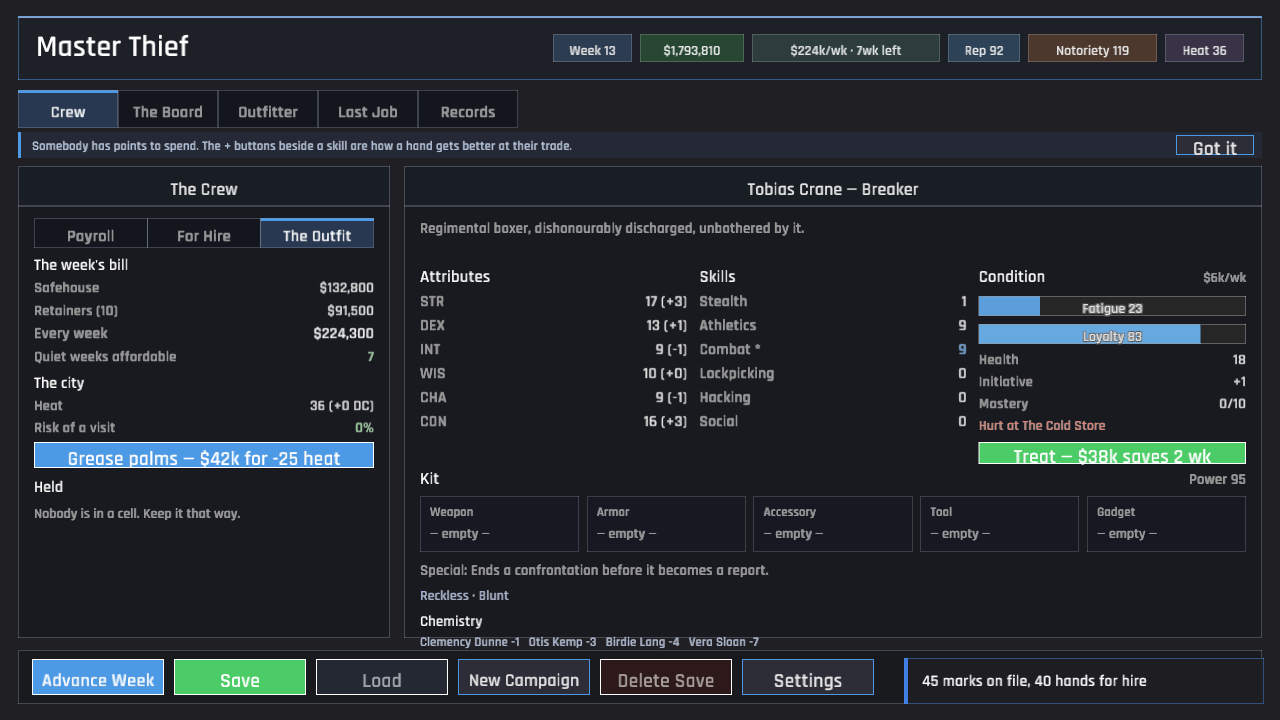
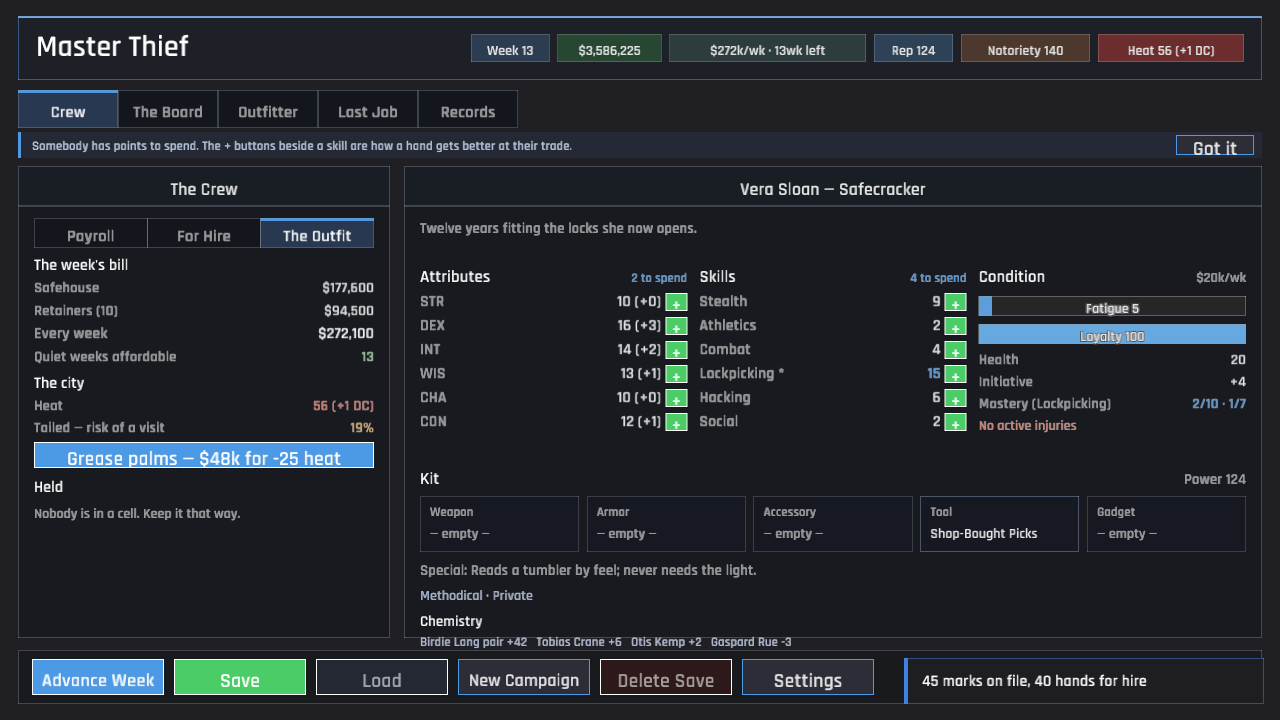
A trade you never practise never deepens, and mastery finally does (GDD 0: wiring a dead field)
`mastery_level` was declared on `Progression`, read by `effective_skills` where
it adds straight to the member's specialty skill, shown on every dossier, and
exposed as an achievement statistic. Nothing anywhere wrote it. Every hand in
every campaign read 0/10 forever, the skill bonus was permanently zero, and
`TallyStat::BestMastery` could not exceed zero either.

This is the exact bug the GDD's own migration table calls out about the
original's `characterRelationships` — a field that exists, is read, and is never
written — and it survived the port into the field the table said to *keep as-is*.
Keeping it as-is turned out to mean keeping it dead.

It is earned now, and only one way: clear a door whose primary skill is the
hand's own trade. Somebody else's door teaches nothing and a failed door teaches
nothing, because you get good at a thing by doing it and succeeding. Each rank
costs more doors than the last, capped at ten.

What that buys is a decision at the planning table, which is where this game
keeps its skill. The candidate list sorts by total bonus, so it will happily
argue for putting a Face on a stealth door because their number is two higher
today. Mastery is the counter-argument: give the specialist their own door and
the trade deepens, and because mastery feeds back into that same skill, the
ranks compound with the choice that earned them. Immediate odds against
investment, decided per door, which is the shape the whole screen is built for.
[…]

diff --git a/src/rules/attributes.rs b/src/rules/attributes.rs
@@ -4,6 +4,7 @@
 //! consumed pruned away (GDD 0, mechanic carry-over table).
 
 use crate::model::{Attributes, CrewMember, DerivedStats, Loadout, Progression, Skill, Skills};
+use serde::{Deserialize, Serialize};
 
 /// The standard `(score - 10) / 2`, rounded *down* — including for negatives,
 /// which is why this uses Euclidean division rather than Rust's truncation.
@@ -89,6 +90,64 @@ pub fn total_experience(level: i32) -> i32 {
 /// The D&D-style proficiency bonus every check gets for free.
 pub fn proficiency_bonus(level: i32) -> i32 {
     (level - 1) / 4 + 2
+}
+
+/// How long it takes to get good at the one thing you are for. Authored in
+/// `game_config.json`: the shape is a rule, the numbers are balance.
+#[derive(Debug, Clone, Copy, PartialEq, Eq, Serialize, Deserialize)]
+pub struct MasteryTuning {
+    /// Doors of your own trade needed for the first rank.
+    pub doors_for_first: u32,
+    /// Added to that requirement at every rank after.
+    pub doors_step: u32,
+    pub max_level: i32,
+}
+
+impl Default for MasteryTuning {
+    fn default() -> Self {
+        Self {
+            doors_for_first: 3,
+            doors_step: 2,
+            max_level: 10,
+        }
+    }
+}
+
+impl MasteryTuning {
+    /// Doors still owed before the next rank, at the rank they hold now.
+    pub fn doors_for_next(&self, level: i32) -> u32 {
+        self.doors_for_first + self.doors_step * level.max(0) as u32
+    }
+
+    pub fn is_capped(&self, level: i32) -> bool {
+        level >= self.max_level
+    }
+}
+
+/// One door of the member's own trade, cleared. Mastery was declared on every
+/// dossier, read by [`effective_skills`], and written by nothing at all — a
+/// hand's specialisation could never actually deepen. It advances here, and
+/// only here: you get good at a trade by practising it successfully, so a
+/// failed door teaches nothing and somebody else's door teaches nothing.
+///
+/// Returns true when that door earned a rank, so the run can say so.
+pub fn work_the_trade(progression: &mut Progression, tuning: &MasteryTuning) -> bool {
+    if tuning.is_capped(progression.mastery_level) {
+        return false;
+    }
+
+    progression.specialty_doors += 1;
+    let needed = tuning.doors_for_next(progression.mastery_level);
+    if progression.specialty_doors < needed {
+        return false;
+    }
+
+    progression.specialty_doors -= needed;
+    progression.mastery_level += 1;
+    if tuning.is_capped(progression.mastery_level) {
+        progression.specialty_doors = 0;
+    }
+    true
 }
 
 /// Award experience, levelling as many times as it covers. Returns how many
@@ -202,6 +261,87 @@ mod tests {
         assert_eq!(skills.stealth, 11);
         // Lockpicking: 4 + DEX(+3) + INT(+2) + 2 = 11
         assert_eq!(skills.lockpicking, 11);
+    }
+
+    #[test]
+    fn a_trade_is_learned_at_its_own_doors() {
+        // Mastery was declared, read by `effective_skills`, and written by
+        // nothing — every dossier in the game read 0/10 forever.
+        let tuning = MasteryTuning::default();
+        let mut progression = Progression::default();
+
+        for _ in 0..tuning.doors_for_first - 1 {
+            assert!(!work_the_trade(&mut progression, &tuning));
+        }
+        assert_eq!(progression.mastery_level, 0);
+
+        assert!(
+            work_the_trade(&mut progression, &tuning),
+            "the rank never came"
+        );
+        assert_eq!(progression.mastery_level, 1);
+        assert_eq!(progression.specialty_doors, 0);
+    }
+
+    #[test]
+    fn every_rank_costs_more_doors_than_the_one_before() {
+        let tuning = MasteryTuning::default();
+        let mut progression = Progression::default();
+        let mut costs = Vec::new();
+
+        for _ in 0..4 {
+            let mut doors = 0;
+            while !work_the_trade(&mut progression, &tuning) {
+                doors += 1;
+                assert!(doors < 500, "a rank that never arrives");
+            }
+            costs.push(doors + 1);
+        }
+
+        for pair in costs.windows(2) {
+            assert!(pair[1] > pair[0], "the ladder is flat: {:?}", costs);
+        }
+    }
+
+    #[test]
+    fn mastery_stops_at_the_cap_and_stays_there() {
+        let tuning = MasteryTuning::default();
+        let mut progression = Progression::default();
+
+        for _ in 0..5_000 {
+            work_the_trade(&mut progression, &tuning);
+        }
+
+        assert_eq!(progression.mastery_level, tuning.max_level);
+        assert_eq!(progression.specialty_doors, 0);
+        assert!(!work_the_trade(&mut progression, &tuning));
+    }
+
+    #[test]
+    fn a_rank_of_mastery_is_worth_a_point_of_the_trade() {
+        // The reason it matters: mastery feeds straight into the specialty
+        // skill, so ranks compound with the planning decision that earned them.
+        let tuning = MasteryTuning::default();
+        let attributes = attrs(10, 10, 10, 10, 10, 10);
+        let mut progression = Progression::default();
+        let before = effective_skills(
+            &attributes,
+            &Skills::default(),
+            &progression,
+            Skill::Stealth,
+        )
+        .get(Skill::Stealth);
+
+        while !work_the_trade(&mut progression, &tuning) {}
+        let after = effective_skills(
+            &attributes,
+            &Skills::default(),
+            &progression,
+            Skill::Stealth,
+        )
+        .get(Skill::Stealth);
+
+        assert_eq!(after - before, 1);
     }
 
     #[test]

diff --git a/src/ui/crew.rs b/src/ui/crew.rs
@@ -374,12 +374,26 @@ fn draw_condition(
         15.0,
         dark::TEXT,
     );
+    // Mastery is earned at the doors of their own trade, so the dossier says
+    // how close the next rank is rather than only where they stand.
+    let mastery = &ctx.data.config.mastery;
+    let rank = member.progression.mastery_level;
     stat_row(
         Rect::new(rect.x, rect.y + 128.0, rect.w, 20.0),
-        "Mastery",
-        &format!("{}/10", member.progression.mastery_level),
+        &format!("Mastery ({})", member.specialty_skill.label()),
+        &if mastery.is_capped(rank) {
+            format!("{}/{} — mastered", rank, mastery.max_level)
+        } else {
+            format!(
+                "{}/{} · {}/{}",
+                rank,
+                mastery.max_level,
+                member.progression.specialty_doors,
+                mastery.doors_for_next(rank)
+            )
+        },
         15.0,
-        dark::TEXT,
+        if rank > 0 { dark::ACCENT } else { dark::TEXT },
     );
 
     let injuries = if condition.injuries.is_empty() {

diff --git a/src/sim/campaign.rs b/src/sim/campaign.rs
@@ -325,6 +325,32 @@ mod tests {
     }
 
     #[test]
+    fn specialists_get_better_at_the_thing_they_are_for() {
+        // Mastery read 0/10 on every dossier in the game because nothing ever
+        // wrote it. A campaign should now visibly deepen somebody's trade.
+        let (_, session, _) = campaign(20_260_726, 20);
+
+        let best = session
+            .crew
+            .iter()
+            .map(|member| member.progression.mastery_level)
+            .max()
+            .unwrap_or(0);
+        assert!(
+            best > 0,
+            "twenty weeks and nobody got better at their trade"
+        );
+        assert!(best < 10, "twenty weeks should not master a trade outright");
+        assert!(
+            session
+                .crew
+                .iter()
+                .any(|m| m.progression.mastery_level == 0),
+            "mastery arrived for everybody, so it is not an investment"
+        );
+    }
+
+    #[test]
     fn the_city_notices_a_working_outfit() {
         let (data, session, log) = campaign(4_242, 20);
 

diff --git a/src/sim/job.rs b/src/sim/job.rs
@@ -3,7 +3,7 @@
 use crate::data::GameData;
 use crate::model::crew::Injury;
 use crate::model::{Encounter, HeistTarget, RunEffect};
-use crate::rules::attributes::award_experience;
+use crate::rules::attributes::{award_experience, work_the_trade};
 use crate::rules::encounter::{build_check, resolve_with_effects, CheckInputs, EncounterResult};
 use crate::rules::outcome::Outcome;
 use crate::sim::plan::situational_modifiers;
@@ -320,6 +320,11 @@ fn resolve_door(
         if result.passed() {
             member.progression.jobs_succeeded += 1;
             member.condition.adjust_loyalty(1);
+            // A trade is learned at its own doors, cleared. Somebody else's
+            // door teaches nothing, and neither does a failed one.
+            if encounter.primary_skill == member.specialty_skill {
+                work_the_trade(&mut member.progression, &data.config.mastery);
+            }
         } else {
             member.condition.adjust_loyalty(-2);
         }

diff --git a/src/model/crew.rs b/src/model/crew.rs
@@ -162,8 +162,12 @@ pub struct Progression {
     pub experience_to_next: i32,
     pub attribute_points: i32,
     pub skill_points: i32,
-    /// 0-10 mastery of the member's specialisation.
+    /// 0-10 mastery of the member's specialisation. Earned at the doors of
+    /// that trade, not handed out — see [`crate::rules::attributes::work_the_trade`].
     pub mastery_level: i32,
+    /// Doors of their own trade cleared since the last rank. Resets on promotion.
+    #[serde(default)]
+    pub specialty_doors: u32,
     pub jobs_completed: u32,
     pub jobs_succeeded: u32,
 }
@@ -177,6 +181,7 @@ impl Default for Progression {
             attribute_points: 0,
             skill_points: 0,
             mastery_level: 0,
+            specialty_doors: 0,
             jobs_completed: 0,
             jobs_succeeded: 0,
         }

diff --git a/src/data.rs b/src/data.rs
@@ -82,6 +82,8 @@ pub struct GameConfig {
     pub law: LawConfig,
     /// How fatigue and loyalty grade into modifiers on the die.
     pub condition: crate::rules::ConditionTuning,
+    /// How long it takes a hand to get good at their own trade.
+    pub mastery: crate::rules::MasteryTuning,
 }
 
 /// Treating an injury rather than waiting it out (GDD 3, 4). The bill scales

diff --git a/src/rules.rs b/src/rules.rs
@@ -11,6 +11,6 @@ pub mod encounter;
 pub mod environment;
 pub mod outcome;
 
-pub use attributes::attribute_modifier;
+pub use attributes::{attribute_modifier, MasteryTuning};
 pub use condition::ConditionTuning;
 pub use outcome::Outcome;

diff --git a/gdd.md b/gdd.md
@@ -54,7 +54,7 @@ Sources: `game_apps/master_thief/` (React 19 + Zustand original),
   | **Manual heists** (`HeistTarget` → `Encounter[]`, resolved one at a time) | **Keep — this is the game** | The tense, legible version of the loop |
   | **Automated heists** (`AutomatedHeist`, team power vs. required power, a timer) | **Redesign, subordinate** | Two parallel resolution systems for the same fiction is the design's central flaw: one is a rich d20 sim, the other a single power comparison against a wall-clock timer. Unified in §5.3 — automation becomes *delegation of the same engine*, never a second engine |
   | Real-time `timeRemaining` on active heists | Cut | Wall-clock timers fight determinism (`CODE_STANDARDS.md` §5) and are a mobile-idle-game idiom this game doesn't want. Jobs resolve when the player advances the week |
-  | Character progression: level, XP, attribute/skill points, mastery 0–10 | Keep as-is | |
+  | Character progression: level, XP, attribute/skill points, mastery 0–10 | Keep, **wire** | Mastery came across declared, read by the skill totals, and written by nothing — the same dead-field bug as `characterRelationships`. It is now *earned*: a hand advances a rank by clearing doors of their own trade, at a cost in doors that rises with every rank. Since mastery feeds straight back into that specialty skill, it rewards the one planning decision the greedy best-total sort argues against — giving a specialist their own door when somebody else is marginally better today. Investment against immediate odds |
   | Loyalty, fatigue, injuries, personality traits, backstory events | Keep, **wire** | Loyalty and personality are tracked and barely consumed. Fatigue and injuries are real and good |
   | Relationship system (`characterRelationships`) | **Cut or build properly** | Three `// TODO: Implement full relationship system in Phase 3` sites; the field exists and nothing writes it. Either a real crew-chemistry system (§5.5) or delete the field — no scaffolding |
   | Equipment drops from heists | **Build** | `// TODO: Add equipment finding logic` — `possibleLoot` is declared on every heist and never rolled |
